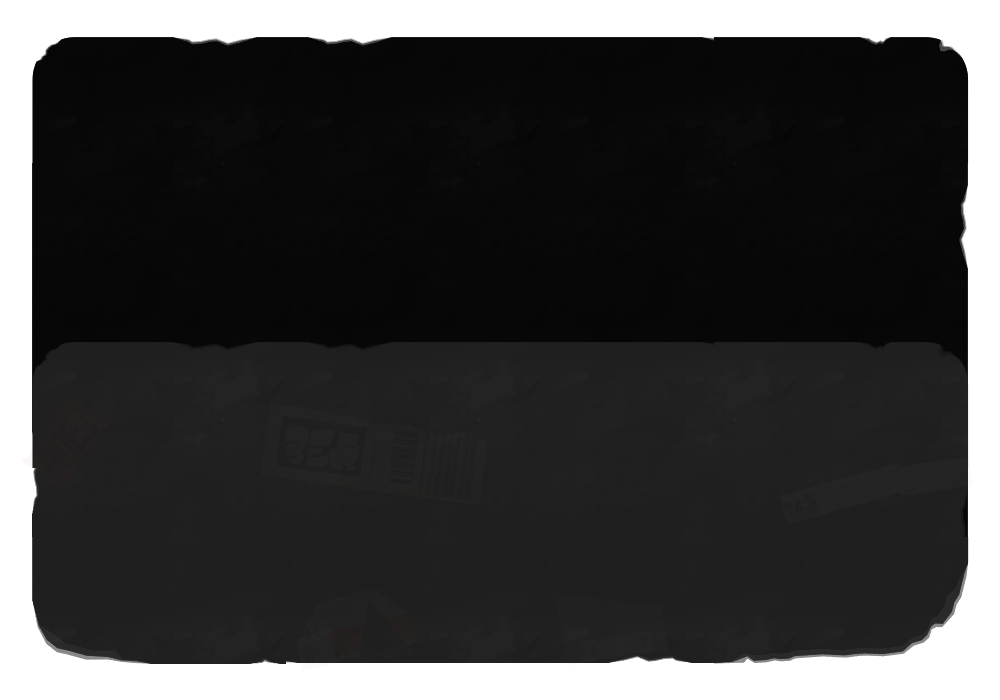
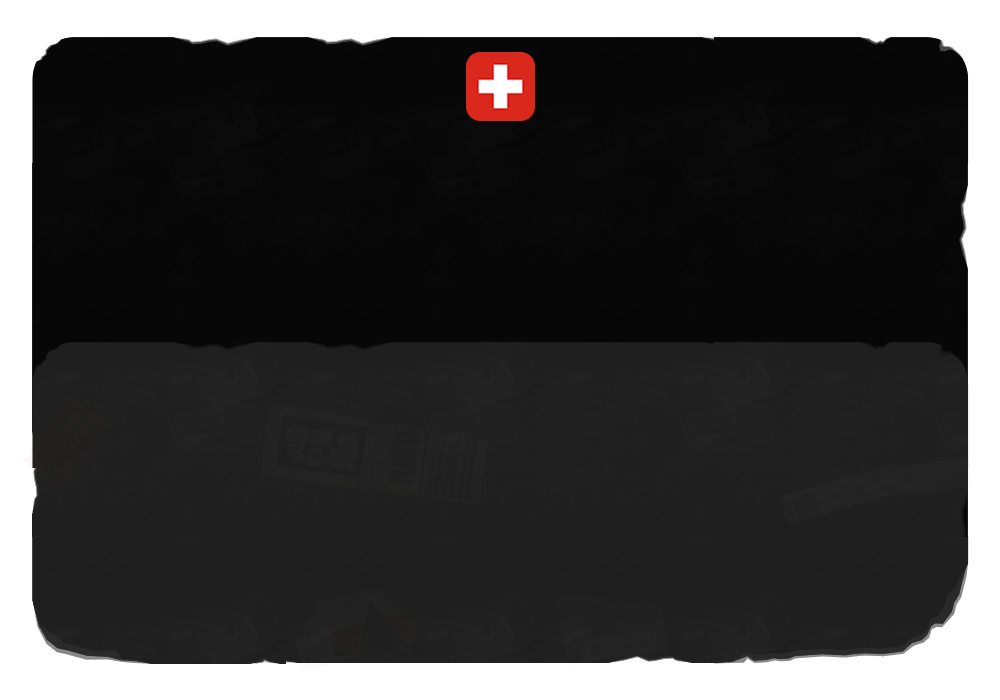
Remove swiss-flag.png by embedding it into the background image

Changed region(s): [[0.465, 0.06, 0.558, 0.18]]

diff --git a/switzerland-power-animated/src/generator.rs b/switzerland-power-animated/src/generator.rs
@@ -1,6 +1,6 @@
 use crate::animation::AnimationSet;
 use crate::font::FontSet;
-use crate::layout::{BuiltPane, PaneContents};
+use crate::layout::BuiltPane;
 use crate::panes::{calc_rank_pane, power_progress_pane};
 use crate::status::SetScore;
 use crate::texts::AnimationLanguage;
@@ -64,8 +64,6 @@ impl AnimationGenerator {
         let bold_font = Rc::new(load_font!(80, "BlitzBold.otf", "FOT-RowdyStd-EB.otf"));
         let bold_font_small = Rc::new(load_font!(36, "BlitzBold.otf", "FOT-RowdyStd-EB.otf"));
 
-        let swiss_flag = PaneContents::image_png(include_bytes!("panes/images/swiss-flag.png"))?;
-
         Ok(Self {
             webp_config,
 
@@ -75,11 +73,10 @@ impl AnimationGenerator {
                 frames: vec![],
             }),
 
-            calc_rank_pane: calc_rank_pane::calc_rank_pane(bold_font.clone(), swiss_flag.clone())?,
+            calc_rank_pane: calc_rank_pane::calc_rank_pane(bold_font.clone())?,
             power_progress_pane: power_progress_pane::power_progress_pane(
                 bold_font.clone(),
                 bold_font_small.clone(),
-                swiss_flag.clone(),
             )?,
 
             _sdl: sdl,

diff --git a/switzerland-power-animated/src/panes/calc_rank_pane.rs b/switzerland-power-animated/src/panes/calc_rank_pane.rs
@@ -10,10 +10,7 @@ use sdl2::rect::Rect;
 use sdl2::render::BlendMode;
 use std::rc::Rc;
 
-pub fn calc_rank_pane(
-    bold_font: Rc<FontSet<'static>>,
-    swiss_flag: PaneContents,
-) -> Result<BuiltPane> {
+pub fn calc_rank_pane(bold_font: Rc<FontSet<'static>>) -> Result<BuiltPane> {
     Ok(Pane {
         rect: Rect::new(0, 0, WIDTH, HEIGHT),
         children: vec![
@@ -23,12 +20,6 @@ pub fn calc_rank_pane(
                     "images/calc-rank-background.png"
                 ))?,
                 contents_blending: BlendMode::None,
-                ..Pane::EMPTY
-            }
-            .build(),
-            Pane {
-                rect: Rect::new(0, 190, 68, 68),
-                contents: swiss_flag,
                 ..Pane::EMPTY
             }
             .build(),

diff --git a/switzerland-power-animated/src/panes/power_progress_pane.rs b/switzerland-power-animated/src/panes/power_progress_pane.rs
@@ -16,7 +16,6 @@ pub const LOSE_COLOR: Color = Color::RGB(43, 24, 255);
 pub fn power_progress_pane(
     bold_font: Rc<FontSet<'static>>,
     bold_font_small: Rc<FontSet<'static>>,
-    swiss_flag: PaneContents,
 ) -> Result<BuiltPane> {
     let win_lose_background =
         PaneContents::image_png(include_bytes!("images/win-lose-background.png"))?;
@@ -29,12 +28,6 @@ pub fn power_progress_pane(
                     "images/power-progress-background.png"
                 ))?,
                 contents_blending: BlendMode::None,
-                ..Pane::EMPTY
-            }
-            .build(),
-            Pane {
-                rect: Rect::new(0, 264, 68, 68),
-                contents: swiss_flag,
                 ..Pane::EMPTY
             }
             .build(),
